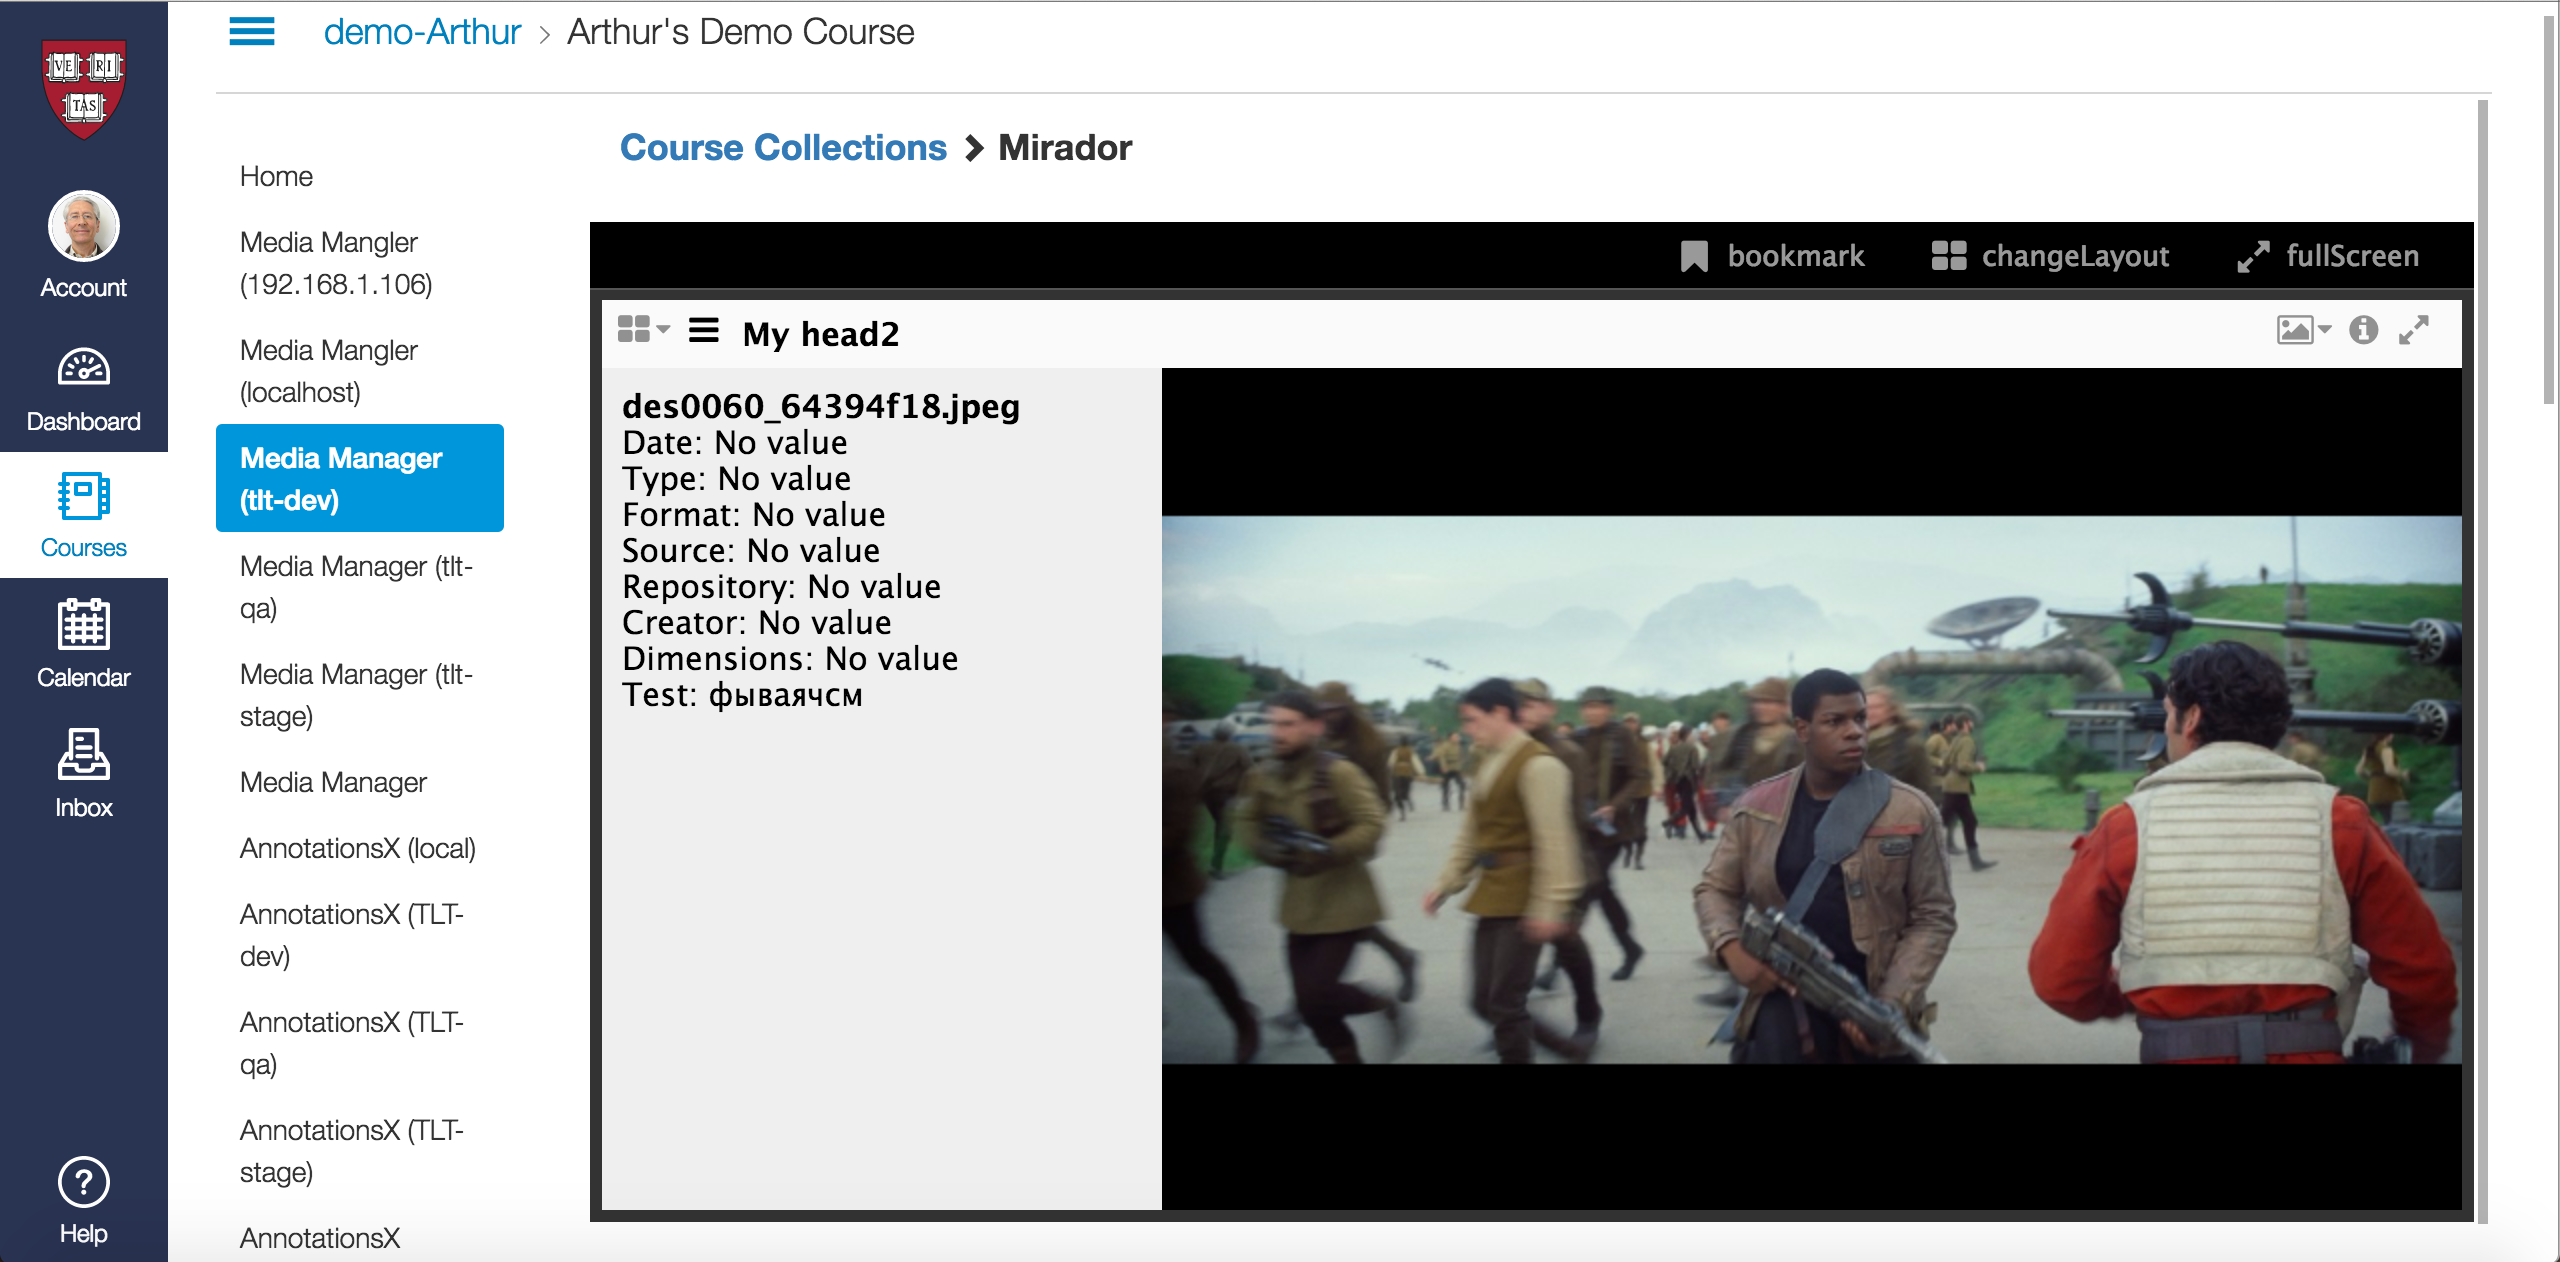
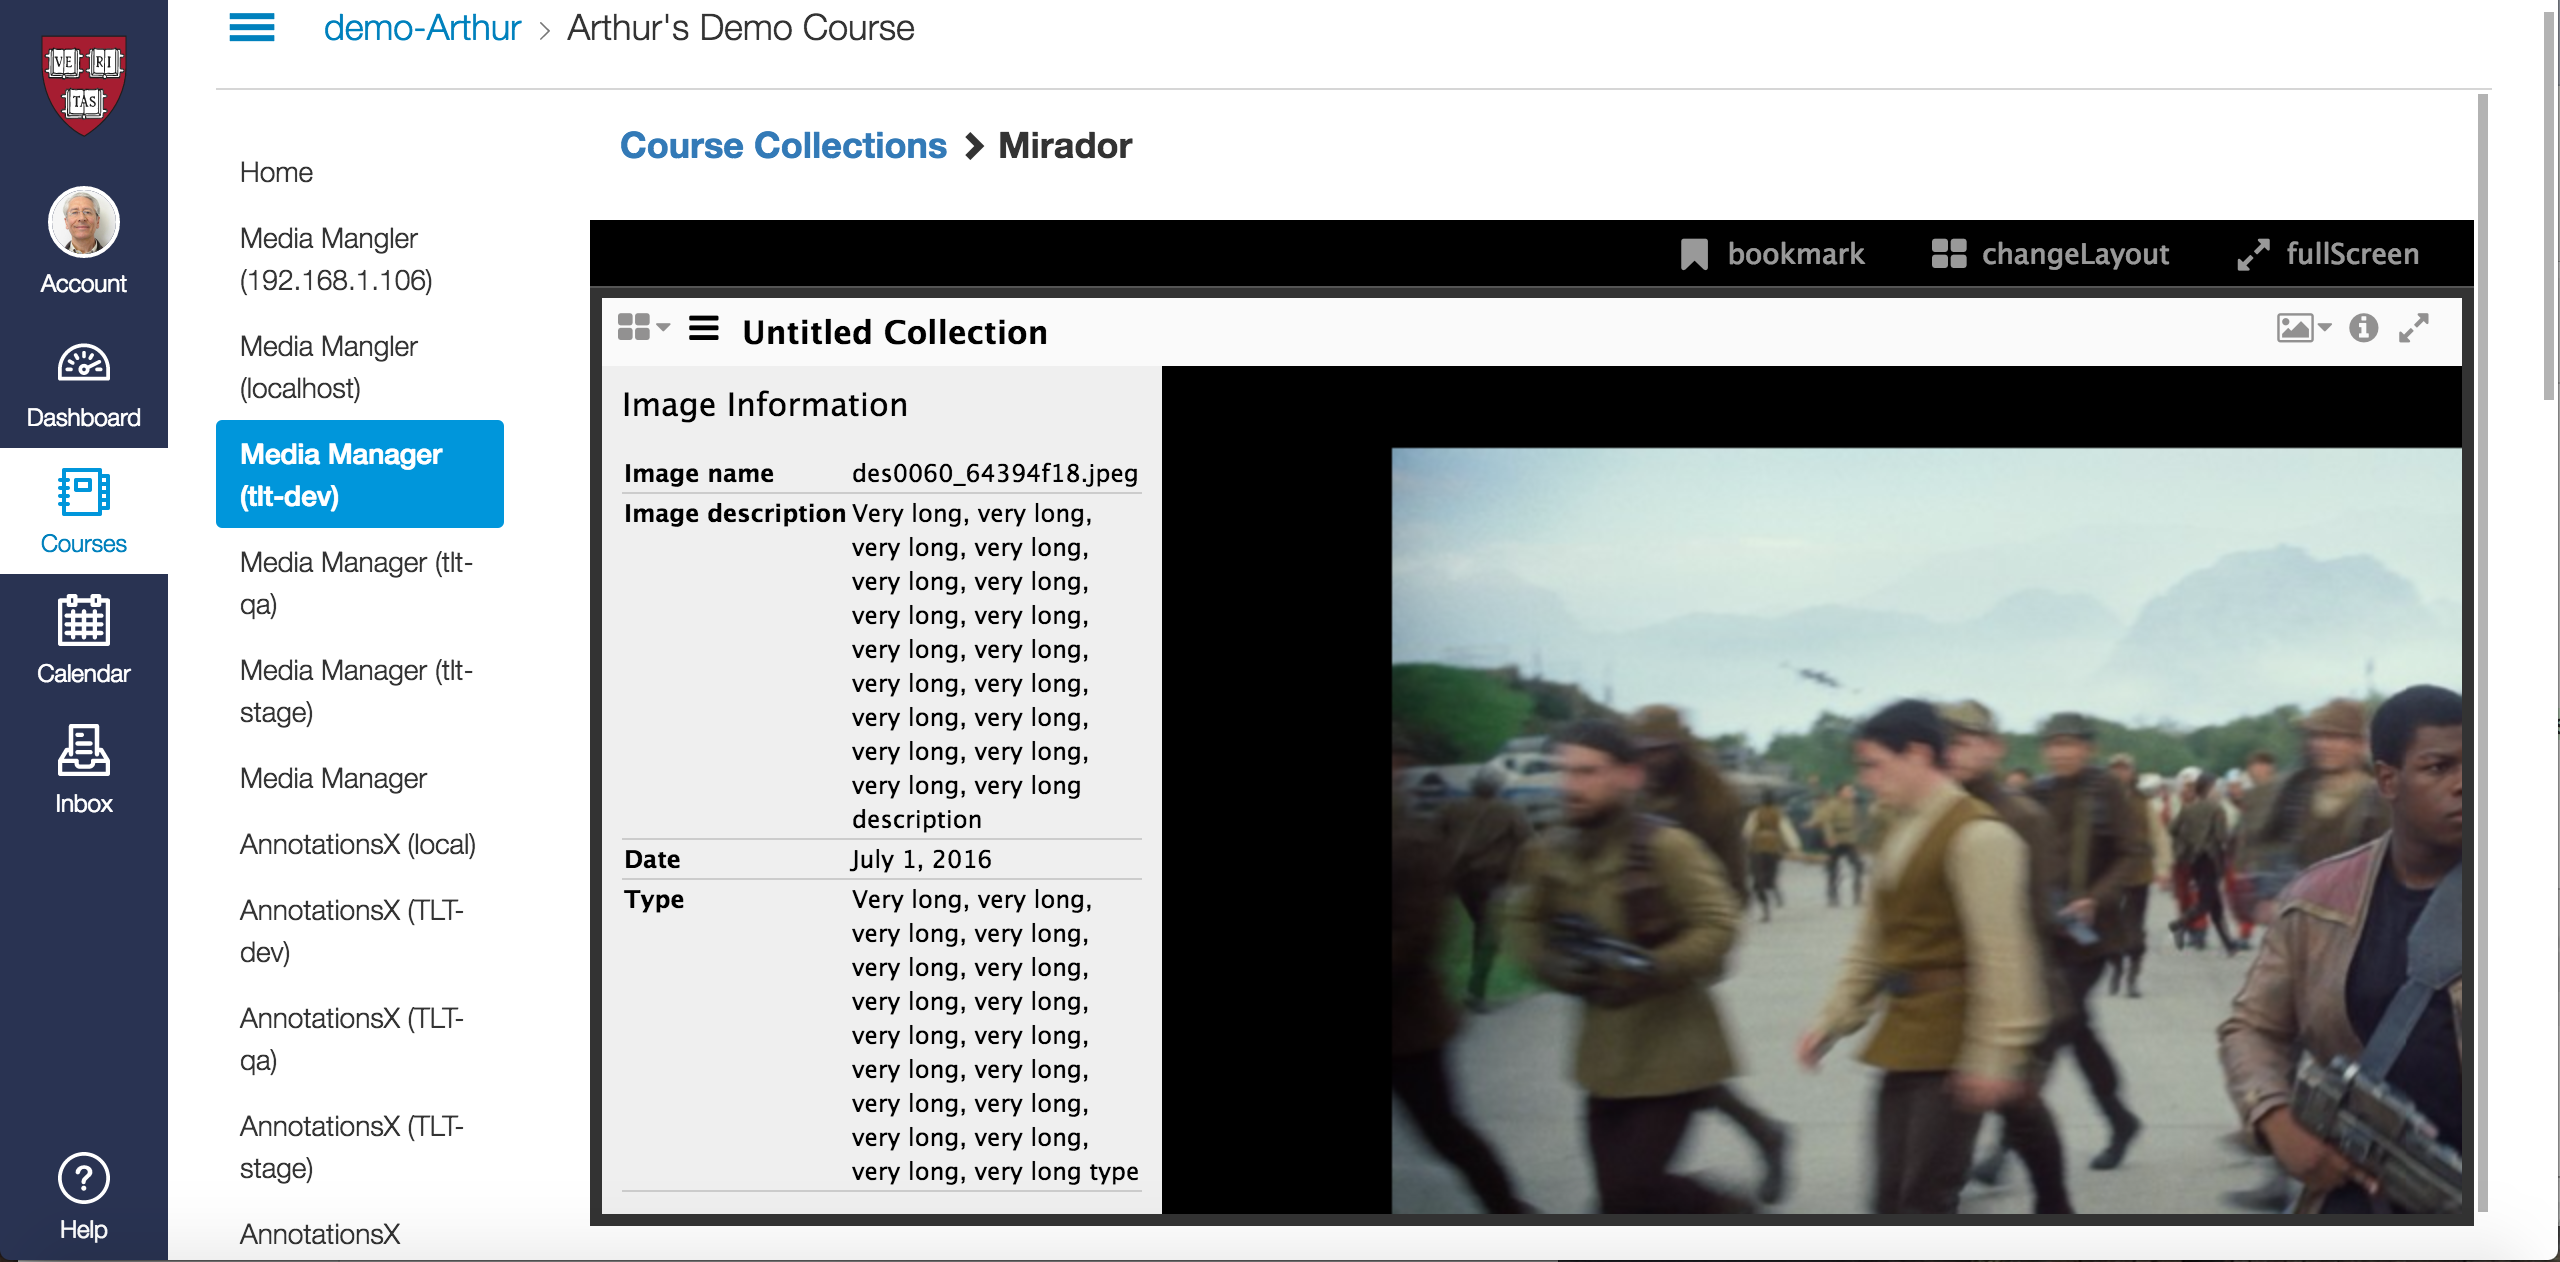
Mirador_Side_Panel, proposed screen and UI

diff --git a/Mirador_Side_Panel/index.html b/Mirador_Side_Panel/index.html
@@ -2,26 +2,121 @@
 	<div class="sidePanel" style="transition-duration: 0.3s; border-right-width: 1px; border-style: none solid none none; border-right-color: lightgray; width: 300px;">
 			<ul class="tabGroup">
 			</ul>
+
 		<div class="tabContentArea">
-			<b>des0060_64394f18.jpeg</b>
-			<br>
-			Date: No value
-			<br>
-			Type: No value
-			<br>
-			Format: No value
-			<br>
-			Source: No value
-			<br>
-			Repository: No value
-			<br>
-			Creator: No value
-			<br>
-			Dimensions: No value
-			<br>
-			Test: фываячсм
-			<br>
-		</div>
+
+			<style>
+				table {
+					box-sizing:border-spacing: 0; 
+					border-collapse: collapse; 
+					border-box; 
+					display: table; 
+					border-color: #ccc; 
+					font-family: 'Open Sans', 'Lucida Grande', Verdana, Arial,sans-serif; 
+					font-size: 12px; 
+					line-height: 1.42857143; 
+					color: #000;
+				}
+				tr {
+					border-bottom: 1px solid #ccc;
+				} 
+				td.label {
+					font-weight:bold;
+					white-space: nowrap;
+					vertical-align: top;
+				}
+			</style>
+
+			<h4 style="margin-bottom: 1em">Image Information</h4>
+
+			<div style="overflow:scroll; height:380px; width:50px">
+				<table>
+					<tbody>
+						<tr>
+							<td class="label">
+								Image name
+							</td>
+							<td>
+								des0060_64394f18.jpeg
+							</td>
+							<td>
+						</tr>
+						<tr>
+							<td class="label">
+								Image description
+							</td>
+							<td>
+								Very long, very long,  very long,  very long,  very long,  very long,  very long,  very long,  very long,  very long,  very long,  very long,  very long,  very long,  very long,  very long,  very long,  very long description
+							</td>
+						</tr>
+						<tr>
+							<td class="label">
+								Date
+							</td>
+							<td>
+								July 1, 2016
+							</td>
+						</tr>
+						<tr>
+							<td class="label">
+								Type
+							</td>
+							<td>
+								Very long, very long,  very long,  very long,  very long,  very long,  very long,  very long,  very long,  very long,  very long,  very long,  very long,  very long,  very long,  very long,  very long,  very long type
+							</td>
+						</tr>
+						<tr>
+							<td class="label">
+								Format
+							</td>
+							<td>
+								Very long, very long,  very long,  very long,  very long,  very long,  very long,  very long,  very long,  very long,  very long,  very long,  very long,  very long,  very long,  very long,  very long,  very long format
+							</td>
+						</tr>
+						<tr>
+							<td class="label">
+								Source
+							</td>
+							<td>
+								Very long, very long,  very long,  very long,  very long,  very long,  very long,  very long,  very long,  very long,  very long,  very long,  very long,  very long,  very long,  very long,  very long,  very long source
+							</td>
+						</tr>
+						<tr>
+							<td class="label">
+								Repository
+							</td>
+							<td>
+								Very long, very long,  very long,  very long,  very long,  very long,  very long,  very long,  very long,  very long,  very long,  very long,  very long,  very long,  very long,  very long,  very long,  very long repository
+							</td>
+						</tr>
+						<tr>
+							<td class="label">
+								Creator
+							</td>
+							<td>
+								Very long, very long,  very long,  very long,  very long,  very long,  very long,  very long,  very long,  very long,  very long,  very long,  very long,  very long,  very long,  very long,  very long,  very long creatro
+							</td>
+						</tr>
+						<tr>
+							<td class="label">
+								Dimensions
+							</td>
+							<td>
+								Extra large
+							</td>
+						</tr>
+						<tr>
+							<td class="label">
+								Test
+							</td>
+							<td>
+								фываячсм, фываячсм, фываячсм, фываячсм, фываячсм, фываячсм, фываячсм, фываячсм, фываячсм, фываячсм, фываячсм, фываячсм, фываячсм, фываячсм, фываячсм, фываячсм, фываячсм, фываячсм, фываячсм, фываячсм, 
+							</td>
+							<td>
+						</tr>
+					</tbody>
+				</table>
+			</div>
 		</div>
 			<div class="overlay">
 				<div class="sub-title">details:</div>
